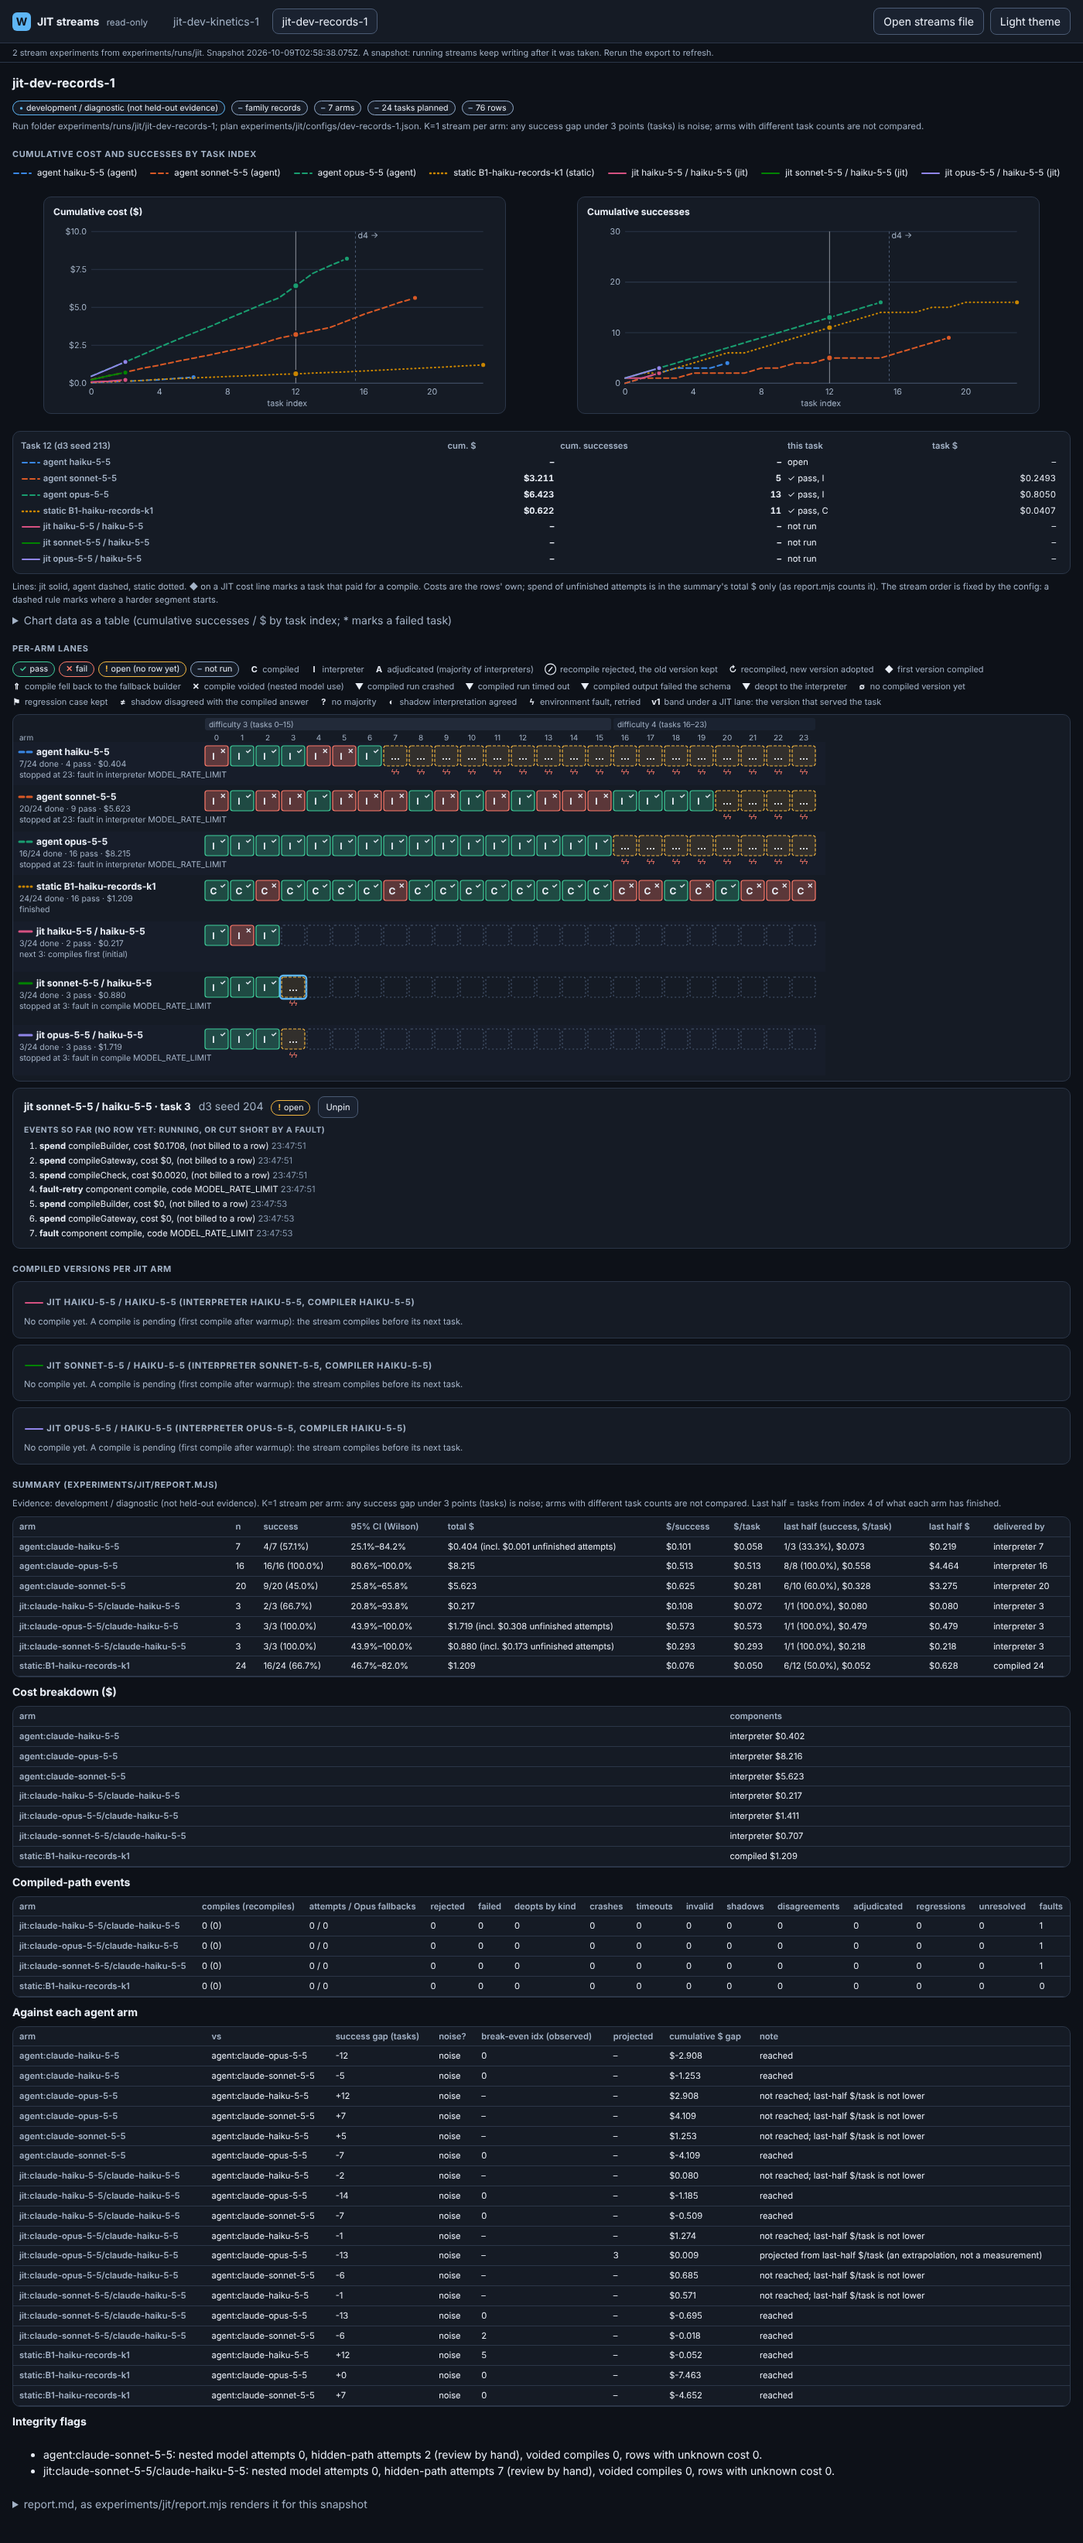
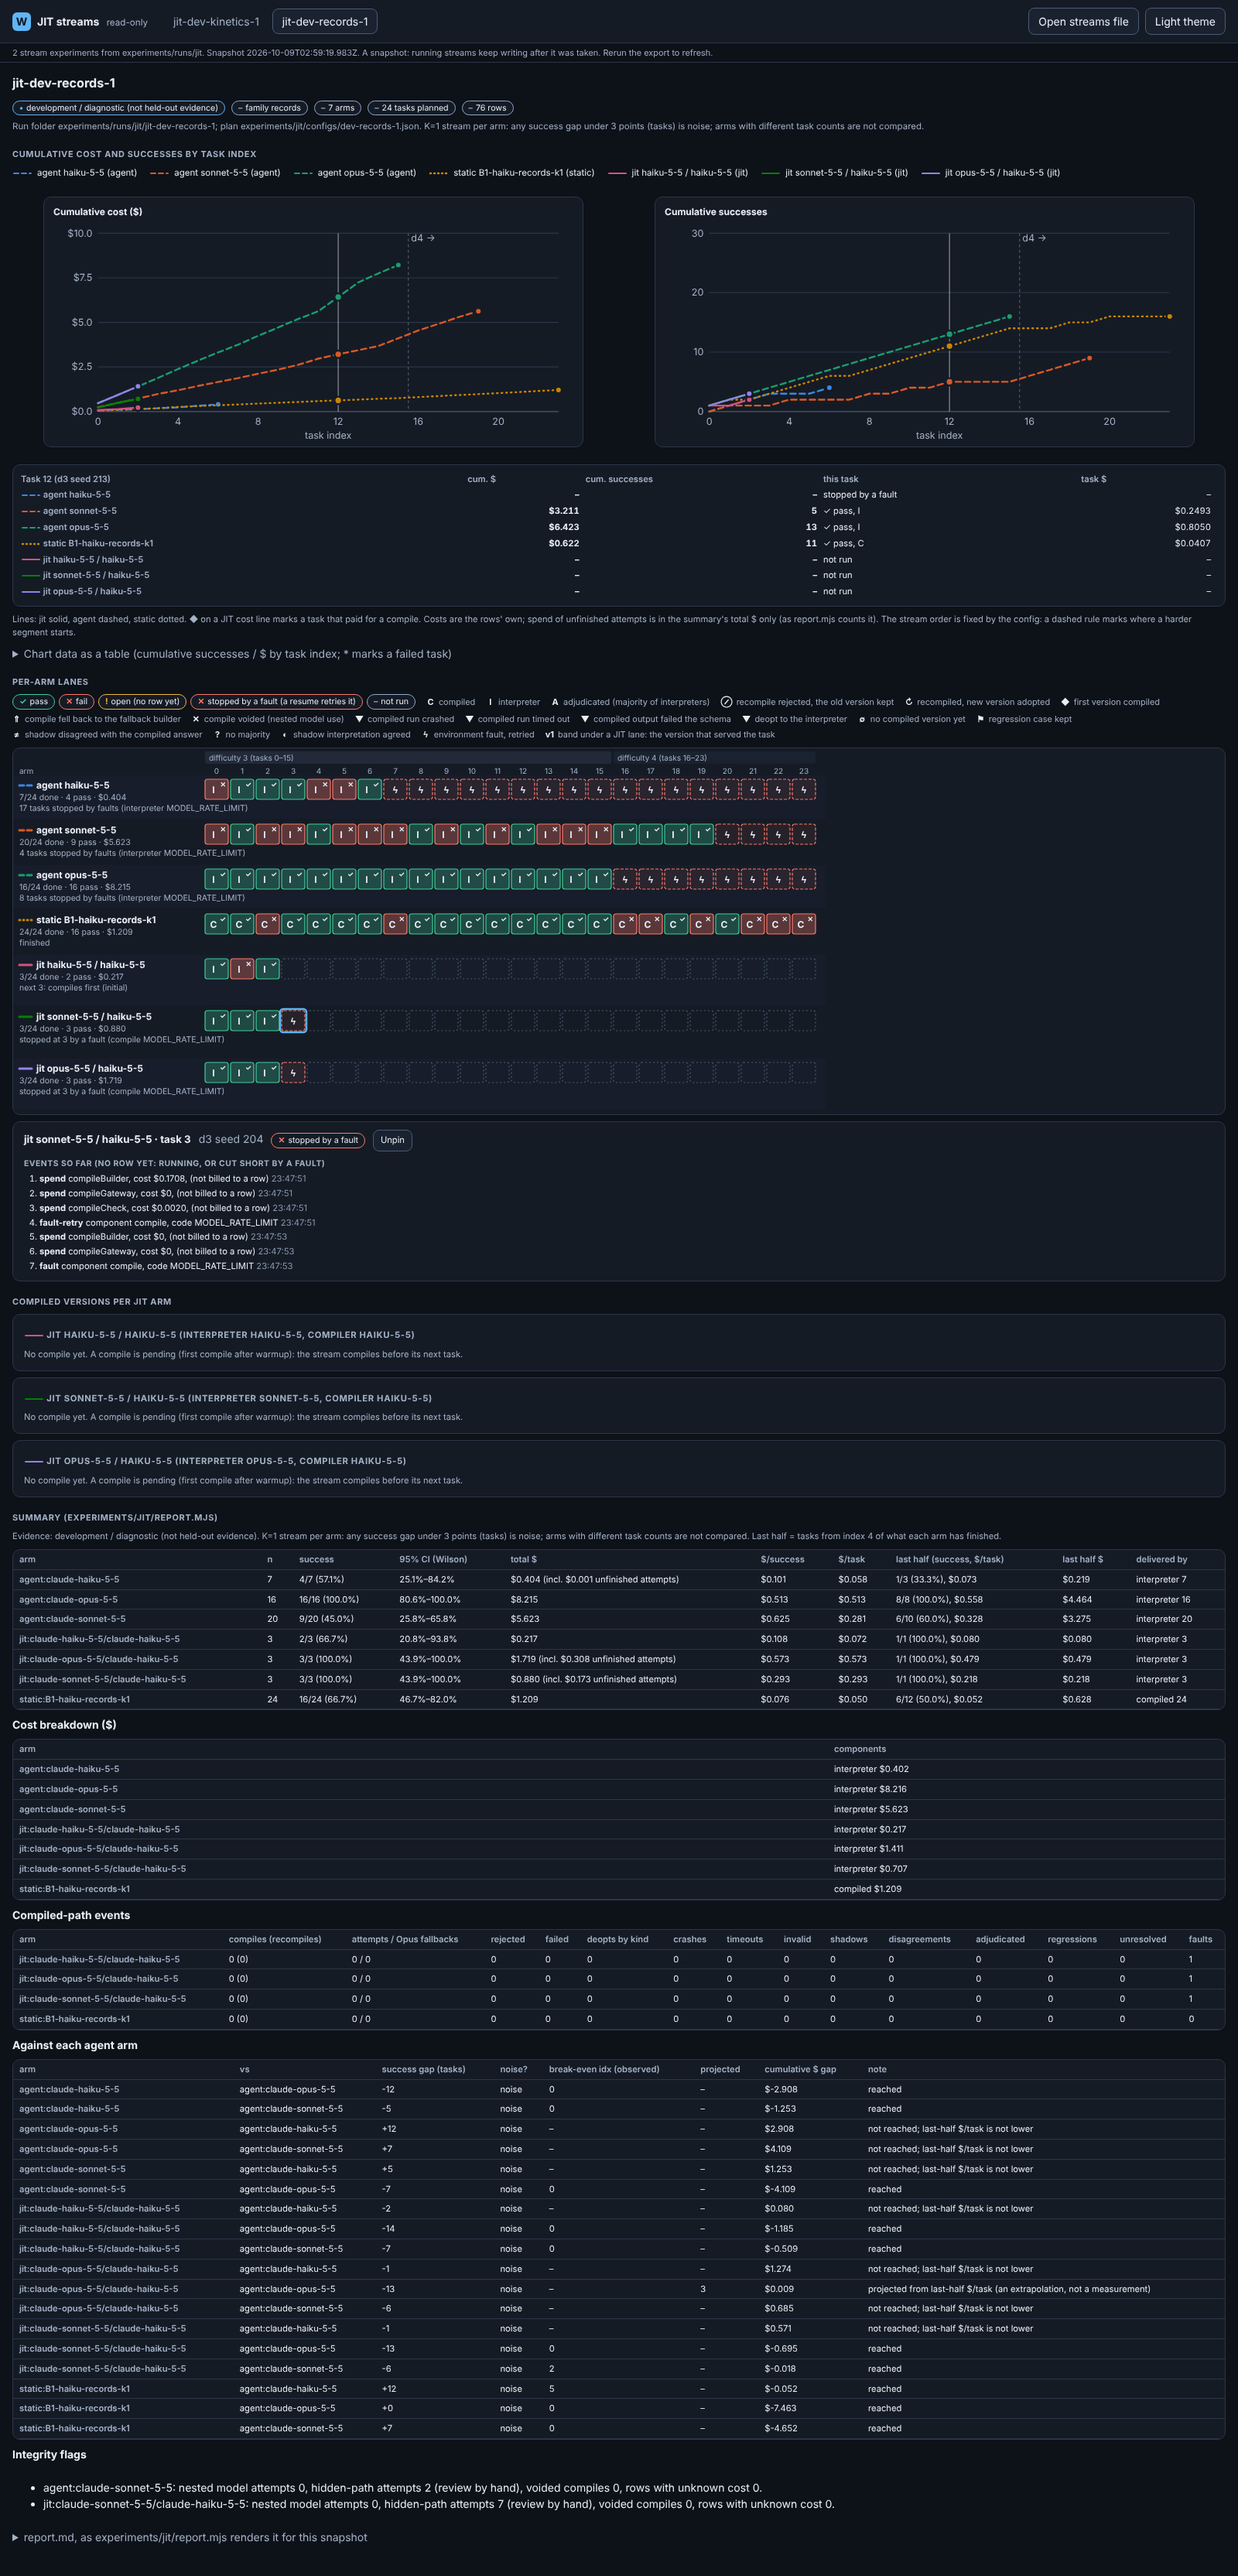
WIP snapshot: run-view stream page in progress (unreviewed)
Claude-Session: https://claude.ai/code/session_011geBy7JvDqKuqhDyfmzd1U

diff --git a/tools/run-view/streams.js b/tools/run-view/streams.js
@@ -166,7 +166,7 @@ function setIdx(i) {
     h('thead', null, h('tr', null, h('th', { scope: 'col' }, head), h('th', { scope: 'col' }, 'cum. $'), h('th', { scope: 'col' }, 'cum. successes'), h('th', { scope: 'col' }, 'this task'), h('th', { scope: 'col' }, 'task $'))),
     h('tbody', null, E.arms.map(a => {
       const p = a.summary.curve[i], r = a.byIdx.get(i);
-      const state = r ? `${r.pass ? '✓ pass' : '✕ fail'}, ${pick(DELIVERED, r.delivered, [r.delivered])[0]}` : a.openIdx.has(i) ? 'open' : 'not run';
+      const state = r ? `${r.pass ? '✓ pass' : '✕ fail'}, ${pick(DELIVERED, r.delivered, [r.delivered])[0]}` : a.openIdx.has(i) ? (stoppedByFault(a.openIdx.get(i)) ? 'stopped by a fault' : 'open') : 'not run';
       return h('tr', null, h('th', { scope: 'row' }, legendKey(a), ' ', a.label), h('td', { class: 'num' }, h('strong', null, p ? usd(p.cumUsd) : '–')), h('td', { class: 'num' }, h('strong', null, p ? String(p.cumSuccesses) : '–')),
         h('td', null, state), h('td', { class: 'num' }, r ? cost(r.costUsd) : '–'));
     })))));
@@ -205,12 +205,13 @@ function cellLabel(E, a, i) {
   if (a.openIdx.has(i)) { const k = a.openIdx.get(i).kinds; return `${where}: ${k.at(-1) === 'fault' ? 'stopped by an environment fault' : 'started'}, no row yet (${k.join(', ') || 'spend only'})`; }
   return `${where}: not run yet`;
 }
+const stoppedByFault = p => p?.kinds.at(-1) === 'fault';             // an open task whose last event is an environment fault: a resume retries it
 function laneStatus(E, a) {
-  const last = a.rows.at(-1), open = a.inProgress?.at(-1);
-  if (open) {
-    // an environment fault stops a JIT stream (a resume continues it at that task); the stream writes nothing after the fault until then
-    const f = open.kinds.at(-1) === 'fault' ? (a.faults ?? []).filter(x => x.idx === open.idx).at(-1) : null;
-    return f || open.kinds.at(-1) === 'fault' ? `stopped at ${open.idx}: fault${f ? ` in ${f.component} ${f.code ?? ''}` : ''}`.trim() : `task ${open.idx} open (no row yet)`;
+  const last = a.rows.at(-1), open = a.inProgress ?? [], stopped = open.filter(stoppedByFault), running = open.filter(p => !stoppedByFault(p));
+  if (running.length) return `task ${running.at(-1).idx} open (no row yet)${stopped.length ? `; ${stopped.length} stopped by faults` : ''}`;
+  if (stopped.length) {
+    const f = (a.faults ?? []).filter(x => stopped.some(p => p.idx === x.idx)).at(-1), what = f ? ` (${f.component} ${f.code ?? ''})`.replace(' )', ')') : '';
+    return stopped.length === 1 ? `stopped at ${stopped[0].idx} by a fault${what}` : `${stopped.length} tasks stopped by faults${what}`;
   }
   if (a.rows.length >= E.taskCount) return 'finished';
   const next = last ? last.idx + 1 : 0;
@@ -242,13 +243,13 @@ function lanesBlock(E) {
       s('text', { class: 'sub', x: 8, y: ly + 41 }, laneStatus(E, a)));
     const row = [];
     for (let i = 0; i < n; i++) {
-      const r = a.byIdx.get(i), x0 = X(i), state = r ? (r.pass ? 'pass' : 'fail') : a.openIdx.has(i) ? 'open' : 'todo';
+      const r = a.byIdx.get(i), x0 = X(i), state = r ? (r.pass ? 'pass' : 'fail') : a.openIdx.has(i) ? (stoppedByFault(a.openIdx.get(i)) ? 'fault' : 'open') : 'todo';
       const g = s('g', { class: 'hit', tabindex: -1, role: 'button', 'aria-label': cellLabel(E, a, i), 'data-a': ai, 'data-i': i });
       g.append(s('rect', { class: `cell ${state}`, x: x0, y: ly, width: CW, height: CH, rx: 3 }), s('rect', { class: 'ring', x: x0 - 2, y: ly - 2, width: CW + 4, height: CH + 4, rx: 4 }));
       if (r) g.append(s('text', { class: 'cl', x: x0 + 11, y: ly + 18, 'text-anchor': 'middle', 'aria-hidden': 'true' }, pick(DELIVERED, r.delivered, ['?'])[0]),
         s('text', { class: 'pf', x: x0 + CW - 3, y: ly + 10, 'text-anchor': 'end', 'aria-hidden': 'true' }, r.pass ? '✓' : '✕'));
-      else if (state === 'open') g.append(s('text', { class: 'cl', x: x0 + CW / 2, y: ly + 18, 'text-anchor': 'middle', 'aria-hidden': 'true' }, '…'));
-      const evs = r ? r.events : state === 'open' ? (a.events ?? []).filter(e => e.idx === i) : [];
+      else if (state === 'open' || state === 'fault') g.append(s('text', { class: 'cl', x: x0 + CW / 2, y: ly + 18, 'text-anchor': 'middle', 'aria-hidden': 'true' }, state === 'fault' ? 'ϟ' : '…'));
+      const evs = r ? r.events : state === 'open' ? (a.events ?? []).filter(e => e.idx === i) : [];   // (a fault-stopped cell already shows its glyph)
       const icons = iconsOf(evs), shown = icons.slice(0, 3);
       if (shown.length) g.append(s('text', { class: 'ic', x: x0 + CW / 2, y: ly + CH + 11, 'text-anchor': 'middle', 'aria-hidden': 'true' },
         ...shown.map(k => s('tspan', { class: `ic i-${ICON[k][1]}` }, ICON[k][0])), icons.length > 3 ? s('tspan', null, `+${icons.length - 3}`) : null));
@@ -281,7 +282,7 @@ function lanesBlock(E) {
     if (ev.key === 'Escape' && S.pinned) { ev.preventDefault(); unpin(); }
   });
   const key = h('div', { class: 'lanes-key', 'aria-label': 'Key' },
-    h('span', { class: 'k' }, badge('pass', 'good'), badge('fail', 'bad'), badge('open (no row yet)', 'warn'), badge('not run', 'slate')),
+    h('span', { class: 'k' }, badge('pass', 'good'), badge('fail', 'bad'), badge('open (no row yet)', 'warn'), badge('stopped by a fault (a resume retries it)', 'bad'), badge('not run', 'slate')),
     ...Object.entries(DELIVERED).map(([, [g, w]]) => h('span', { class: 'k' }, h('span', { class: 'g' }, g), w)),
     ...[...new Map(ICON_ORDER.map(k => [ICON[k][0] + ICON[k][1], k])).values()].map(k => h('span', { class: 'k' }, h('span', { class: 'g' }, ICON[k][0]), ICON[k][2])),
     h('span', { class: 'k' }, h('span', { class: 'g' }, 'v1'), 'band under a JIT lane: the version that served the task'));
@@ -335,7 +336,7 @@ function showDetail(ai, i, pinned) {
   const E = S.exp, a = E.arms[ai], r = a.byIdx.get(i), t = E.tasks[i], box = $('detail');
   if (!box) return;
   const head = h('div', { class: 'dt' }, h('h4', null, `${a.label} · task ${i}`), h('span', { class: 'muted' }, r?.taskKey ?? (t ? `d${t.difficulty ?? '?'} seed ${t.seed ?? '?'}` : '')),
-    r ? badge(r.pass ? 'pass' : 'fail', r.pass ? 'good' : 'bad') : a.openIdx.has(i) ? badge('open', 'warn') : badge('not run', 'slate'),
+    r ? badge(r.pass ? 'pass' : 'fail', r.pass ? 'good' : 'bad') : a.openIdx.has(i) ? (stoppedByFault(a.openIdx.get(i)) ? badge('stopped by a fault', 'bad') : badge('open', 'warn')) : badge('not run', 'slate'),
     r ? badge(`by ${pick(DELIVERED, r.delivered, [0, r.delivered])[1]}`, r.delivered === 'compiled' ? 'info' : r.delivered === 'adjudicated' ? 'violet' : 'slate') : null,
     r?.version != null ? badge(`v${r.version}`, 'info') : null, r?.compiledStatus && r.compiledStatus !== 'ok' ? badge(`compiled ${r.compiledStatus}${r.deoptKind && r.deoptKind !== r.compiledStatus ? ` (${r.deoptKind})` : ''}`, 'warn') : null,
     pinned ? h('button', { type: 'button', class: 'btn small', onclick: () => unpin() }, 'Unpin') : h('span', { class: 'faint' }, '(preview; click to pin)'));

diff --git a/tools/run-view/streams.css b/tools/run-view/streams.css
@@ -66,6 +66,7 @@ svg.lanes .cell.pass { fill: var(--green); fill-opacity: .26; stroke: var(--gree
 svg.lanes .cell.fail { fill: var(--red); fill-opacity: .3; stroke: var(--red); }
 svg.lanes .cell.todo { fill: none; stroke: var(--line-strong); stroke-dasharray: 2 3; }
 svg.lanes .cell.open { fill: var(--amber); fill-opacity: .12; stroke: var(--amber); stroke-dasharray: 4 2; }
+svg.lanes .cell.fault { fill: var(--red); fill-opacity: .08; stroke: var(--red); stroke-dasharray: 4 2; }
 svg.lanes .cl { font-weight: 700; font-size: 12px; }
 svg.lanes .pf { font-size: 9px; font-weight: 700; }
 svg.lanes .ic { font-size: 10px; fill: var(--muted); }

diff --git a/tools/run-view/README.md b/tools/run-view/README.md
@@ -67,3 +67,20 @@ model CALLS, and a run that finished positively is not summarised as failed beca
 "summary only". Review findings and measurements: `research/review-20261007/06b-run-history.md`, section "Review (adversarial, 2026-10-08)".
 
 Not built: live mode (`serve.mjs --index`), an in-page summarise button, `foundry serve` integration (waits for the engine freeze), the builder transcript.
+
+## JIT streams: cost and success curves, per-arm lanes, compiled versions
+
+For the JIT stream experiments (`experiments/runs/jit/<experiment>/<arm>/`, layout in `research/jit-20261008/SPEC.md` §6.3). Read-only: it never writes into the run folders.
+The totals, curves, steady state and break-even figures come from `experiments/jit/report.mjs` (`loadRun`, `buildReport`, `renderMarkdown`) unchanged.
+
+| File | Role |
+|---|---|
+| `index-streams.mjs` | builds `foundry-jit-streams/1`: one record per experiment with each arm's rows (only the oracle's numeric fields), event log, open or fault-stopped tasks, compile attempts (`versions/`: outcome, reason and trigger, cost, host check, parent, BUILD-NOTES excerpt, withheld for held-out splits) and the report.mjs summary; the plan comes from `experiments/jit/configs/` |
+| `export-streams.mjs` | writes `streams-export.json` and one self-contained html (hashed CSP, `connect-src 'none'`) |
+| `streams.html`, `streams.css`, `streams.js` | the page (it also loads `history.css` and `history-core.js`): cumulative cost and success charts, lanes, version timeline, report.mjs summary |
+| `test/streams.test.mjs`, `test/streams-fixture/` | $0 tests on a synthetic stream tree, including a real-browser check |
+
+```sh
+node tools/run-view/export-streams.mjs --out /tmp/streams.html            # also writes /tmp/streams-export.json; --out x.json writes the JSON only
+node --test tools/run-view/test/streams.test.mjs
+```
